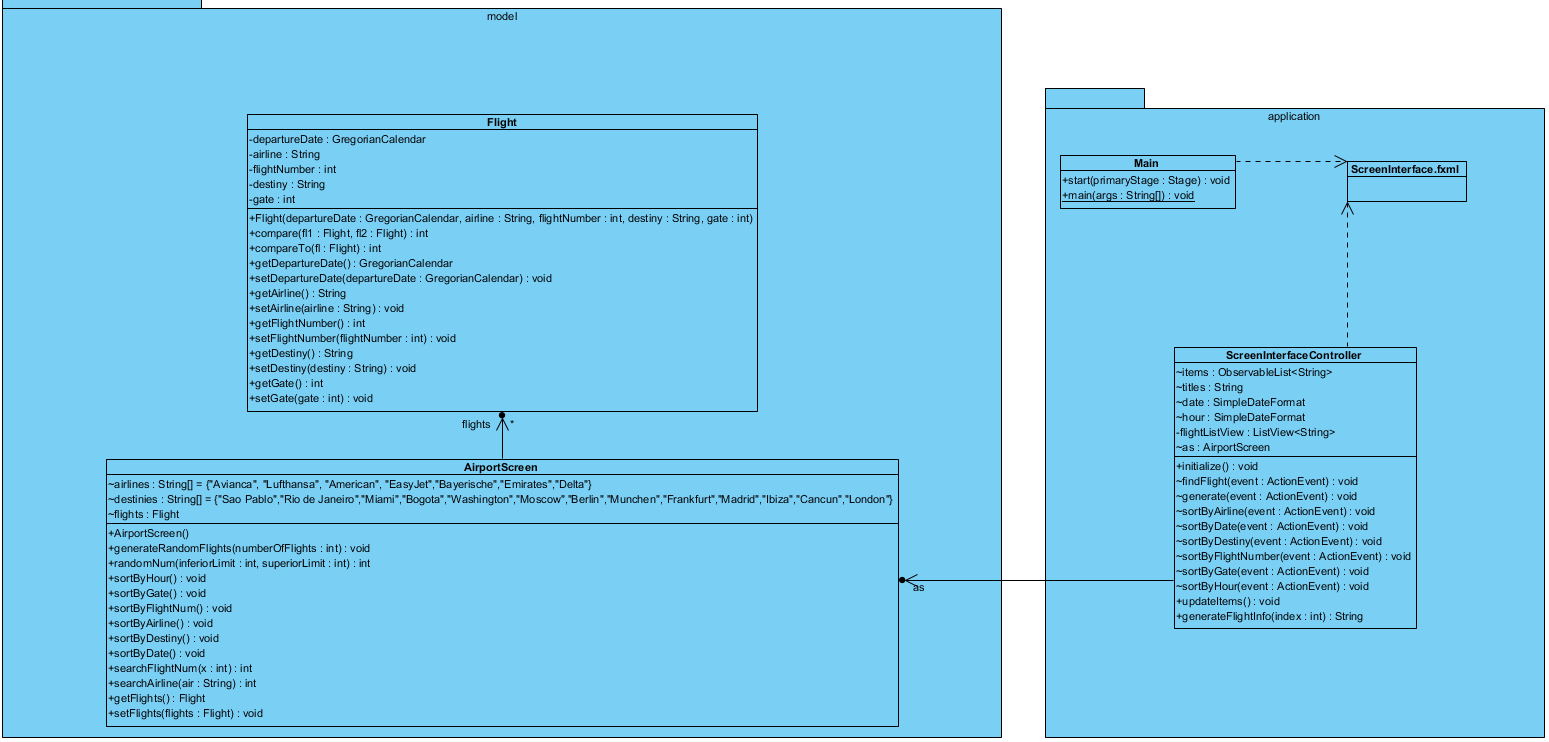
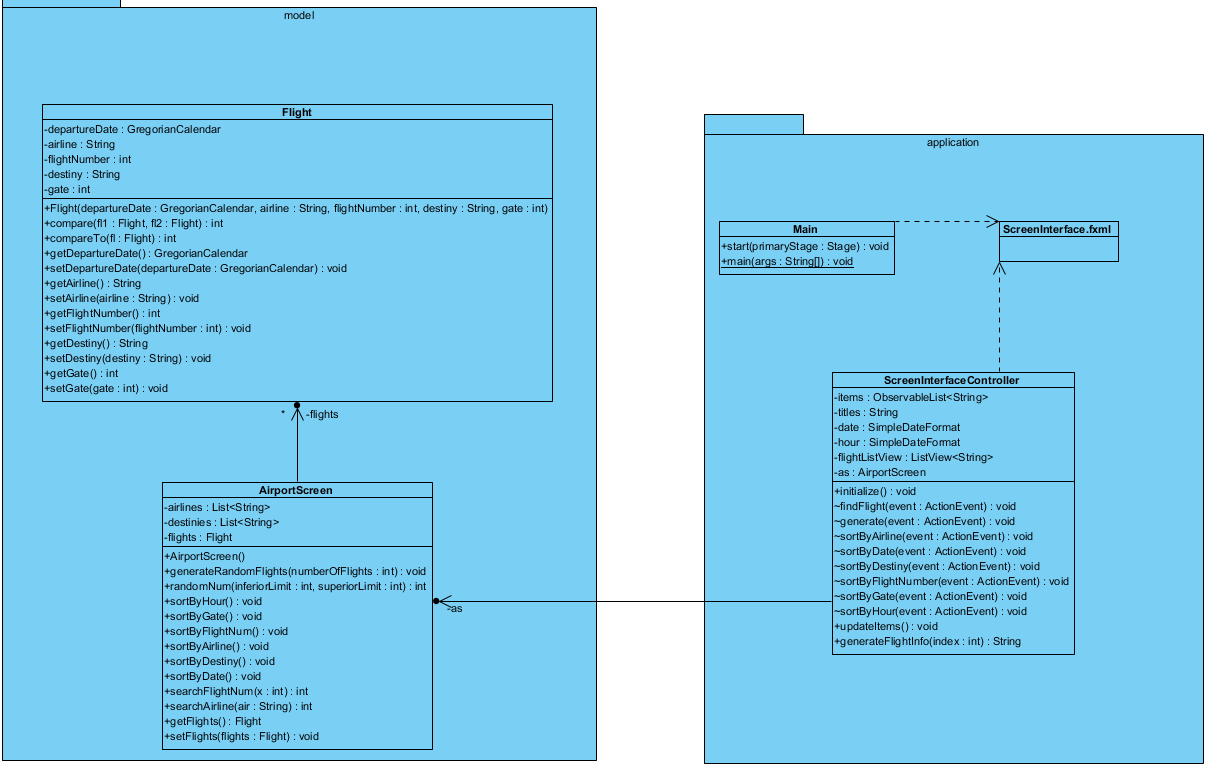
Class Diagram

diff --git a/src/application/ScreenInterfaceController.java b/src/application/ScreenInterfaceController.java
@@ -20,11 +20,11 @@ import model.Flight;
 
 public class ScreenInterfaceController {
 	
-	AirportScreen as;
-	ObservableList<String> items;
-	String titles;
-	SimpleDateFormat date;
-	SimpleDateFormat hour;
+	private AirportScreen as;
+	private ObservableList<String> items;
+	private String titles;
+	private SimpleDateFormat date;
+	private SimpleDateFormat hour;
 	
 	public void initialize() {
 		as = new AirportScreen();
